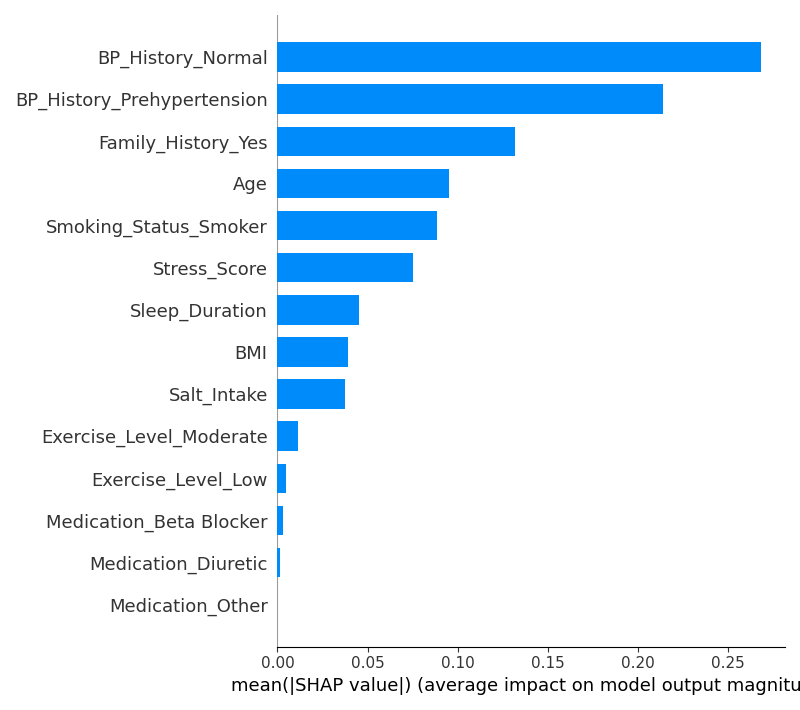
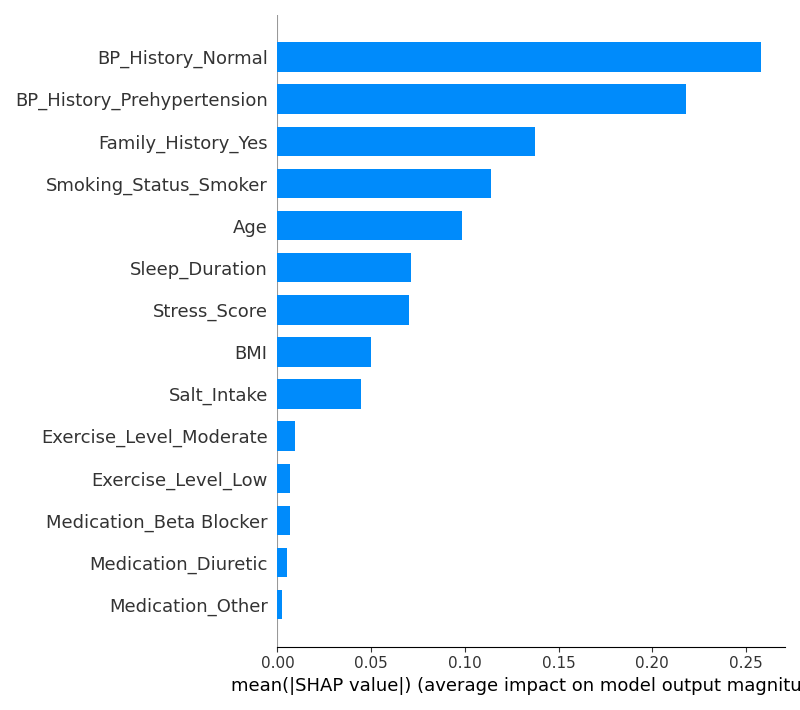
grafico de dependências

diff --git a/model/model_explainer.py b/model/model_explainer.py
@@ -6,9 +6,6 @@ import shap
 
 model = tf.keras.models.load_model('/home/bruno/Hypertension_prediction/model/hypertension_model.h5')
 
-# selected_features = ['age',  'Salt_intake', 'Stress_Score', 'BP_History', 'Sleep_Duration', 'BMI', 'Medication', 'Family_History', 
-#                      'Exercise_Level', 'Smoking_Status']
-
 input_test = pd.read_csv('/home/bruno/Hypertension_prediction/dataset/test/input_test_scaled.csv')
 input_train = pd.read_csv('/home/bruno/Hypertension_prediction/dataset/train/input_train_scaled.csv')
 
@@ -21,18 +18,18 @@ input_train.columns = correct_feature_names
 background_data = shap.sample(input_test, 100)
 explainer = shap.KernelExplainer(model.predict, background_data)
 
-shap_values = explainer.shap_values(input_test.iloc[:10])
+shap_values = explainer.shap_values(input_test.iloc[:50])
 
 print("SHAP values calculated.")
 
 shap_values = np.array(shap_values).squeeze(-1)
 
-shap.summary_plot(shap_values, input_test.iloc[:10], plot_type="bar", show=False)
+shap.summary_plot(shap_values, input_test.iloc[:50], plot_type="bar", show=False)
 plt.tight_layout()
 plt.savefig('/home/bruno/Hypertension_prediction/model/shap_summary_plot.png')
 plt.close()
 
-shap.dependence_plot('BP_History_Normal', shap_values, input_test.iloc[:10], show=False)
+shap.dependence_plot('BP_History_Normal', shap_values, input_test.iloc[:50], show=False)
 plt.tight_layout()
 plt.savefig('/home/bruno/Hypertension_prediction/model/shap_dependence_plot_BP_History_Normal.png')
 plt.close()
